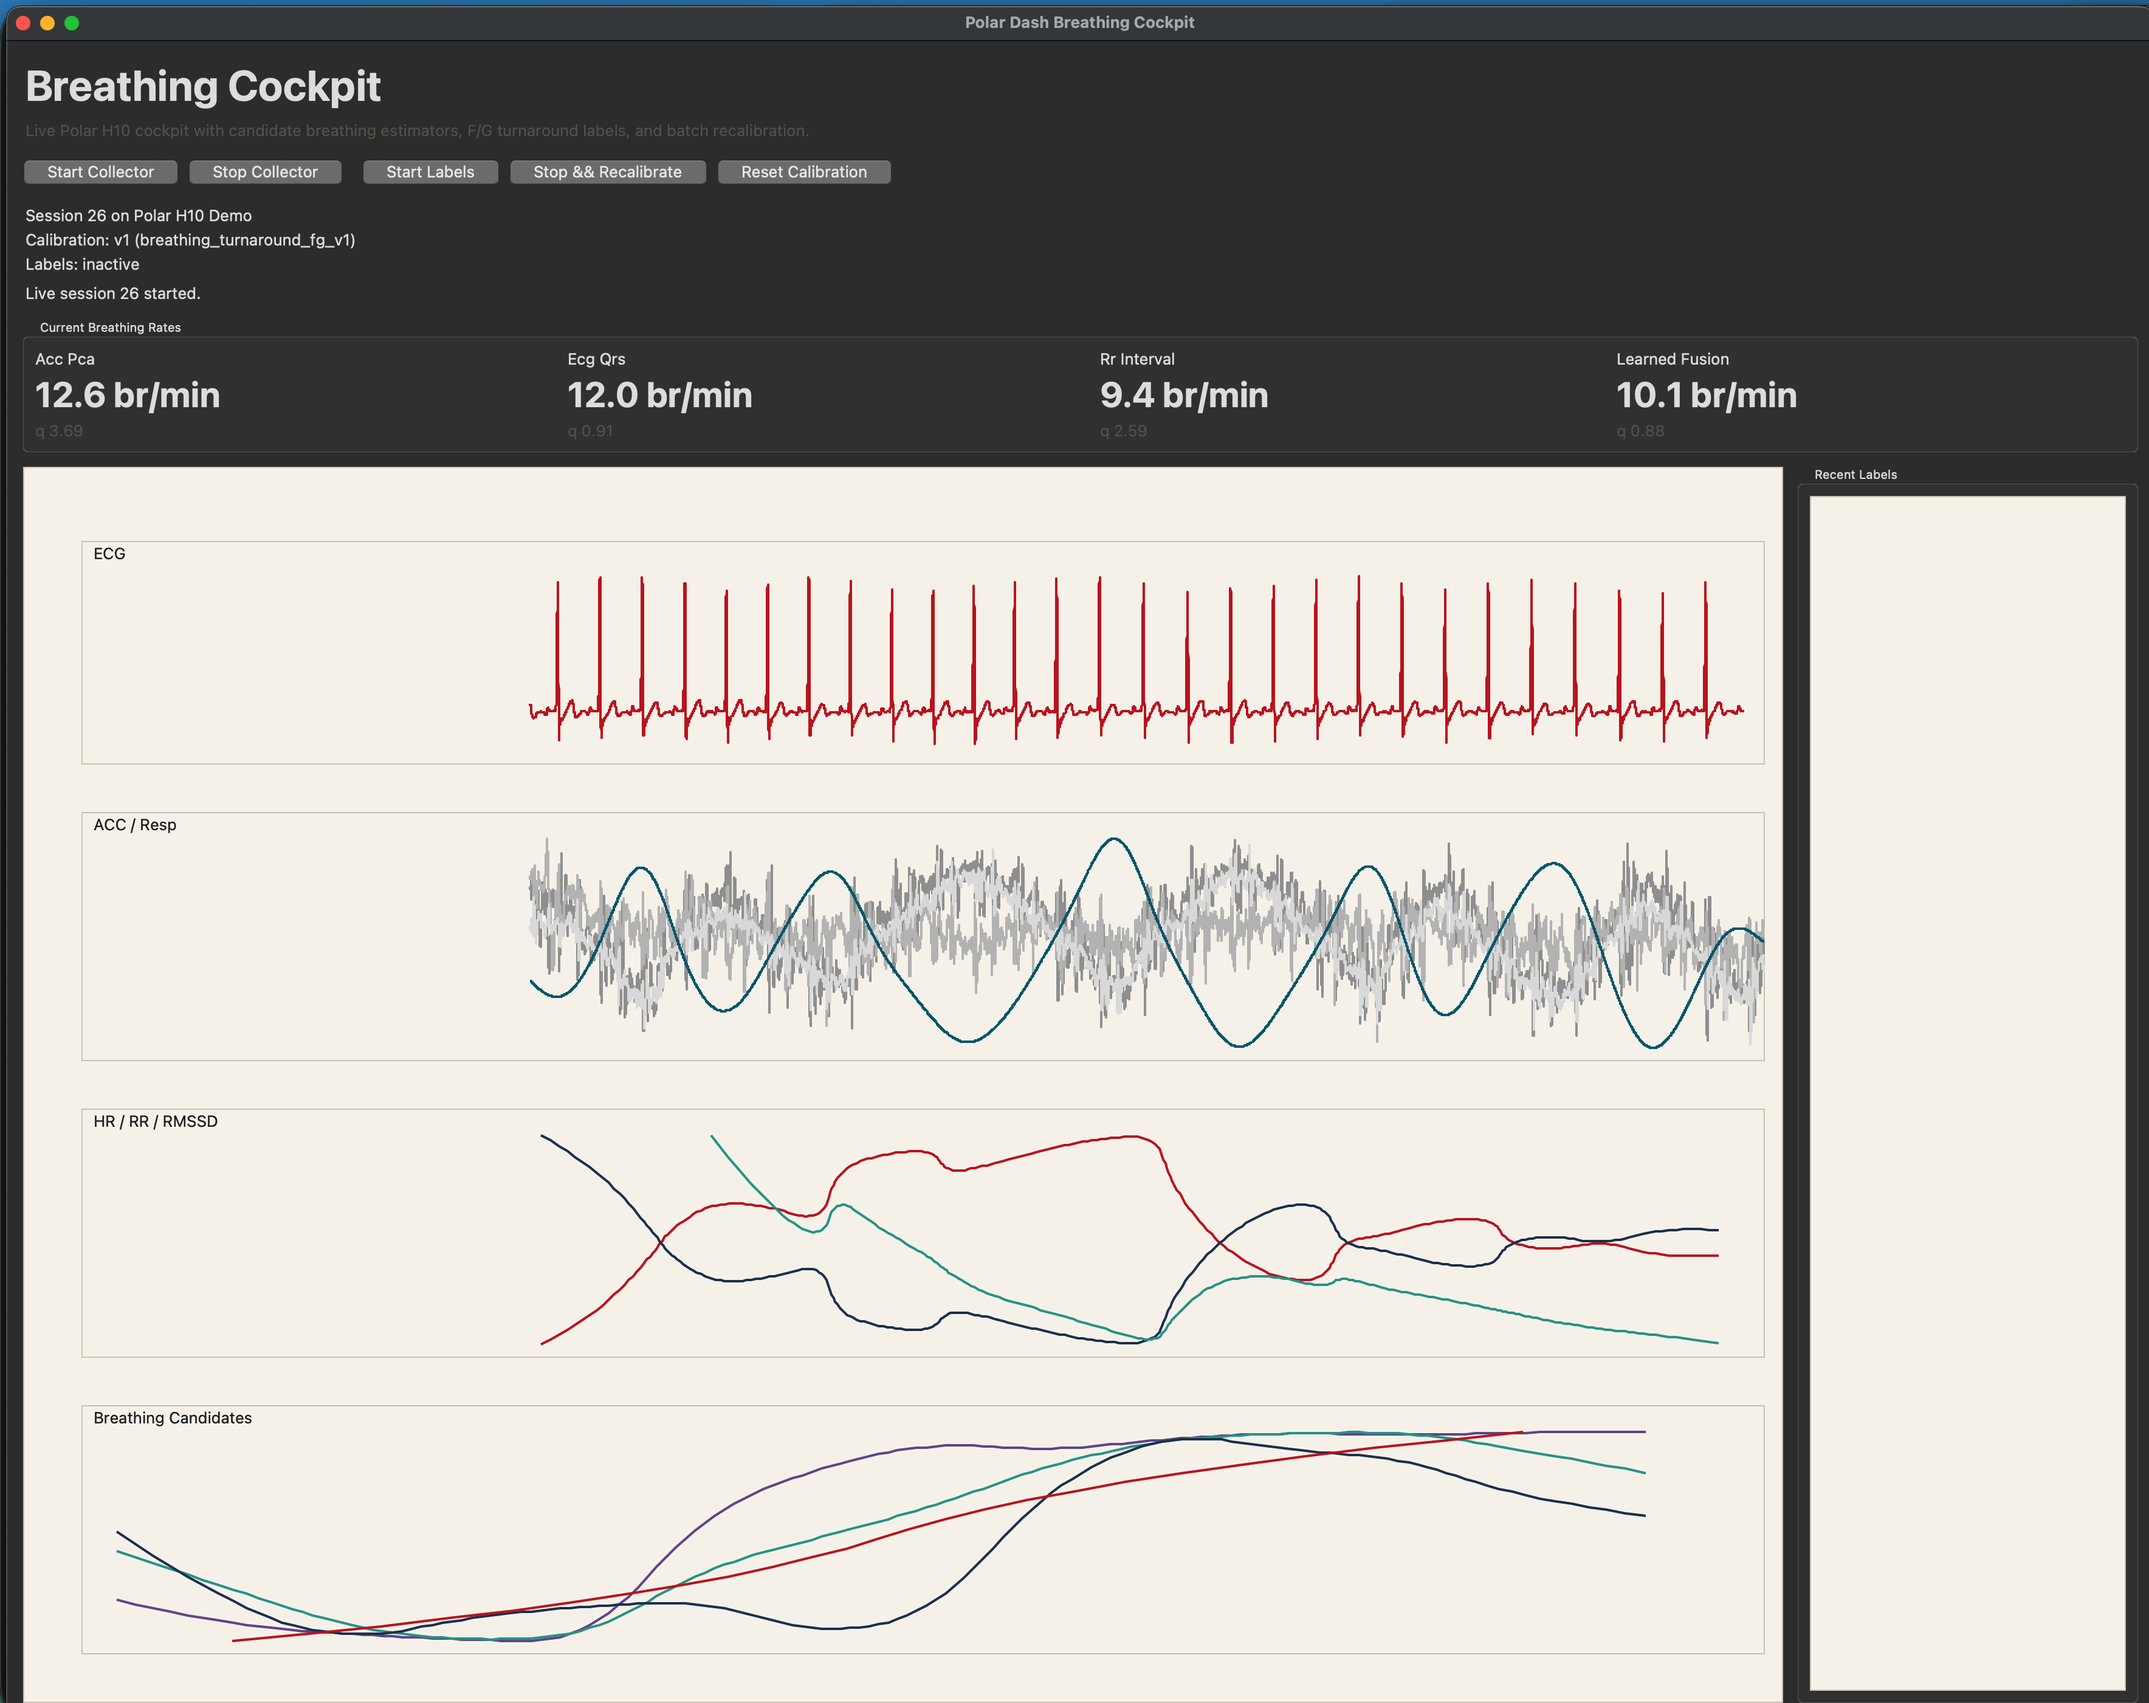
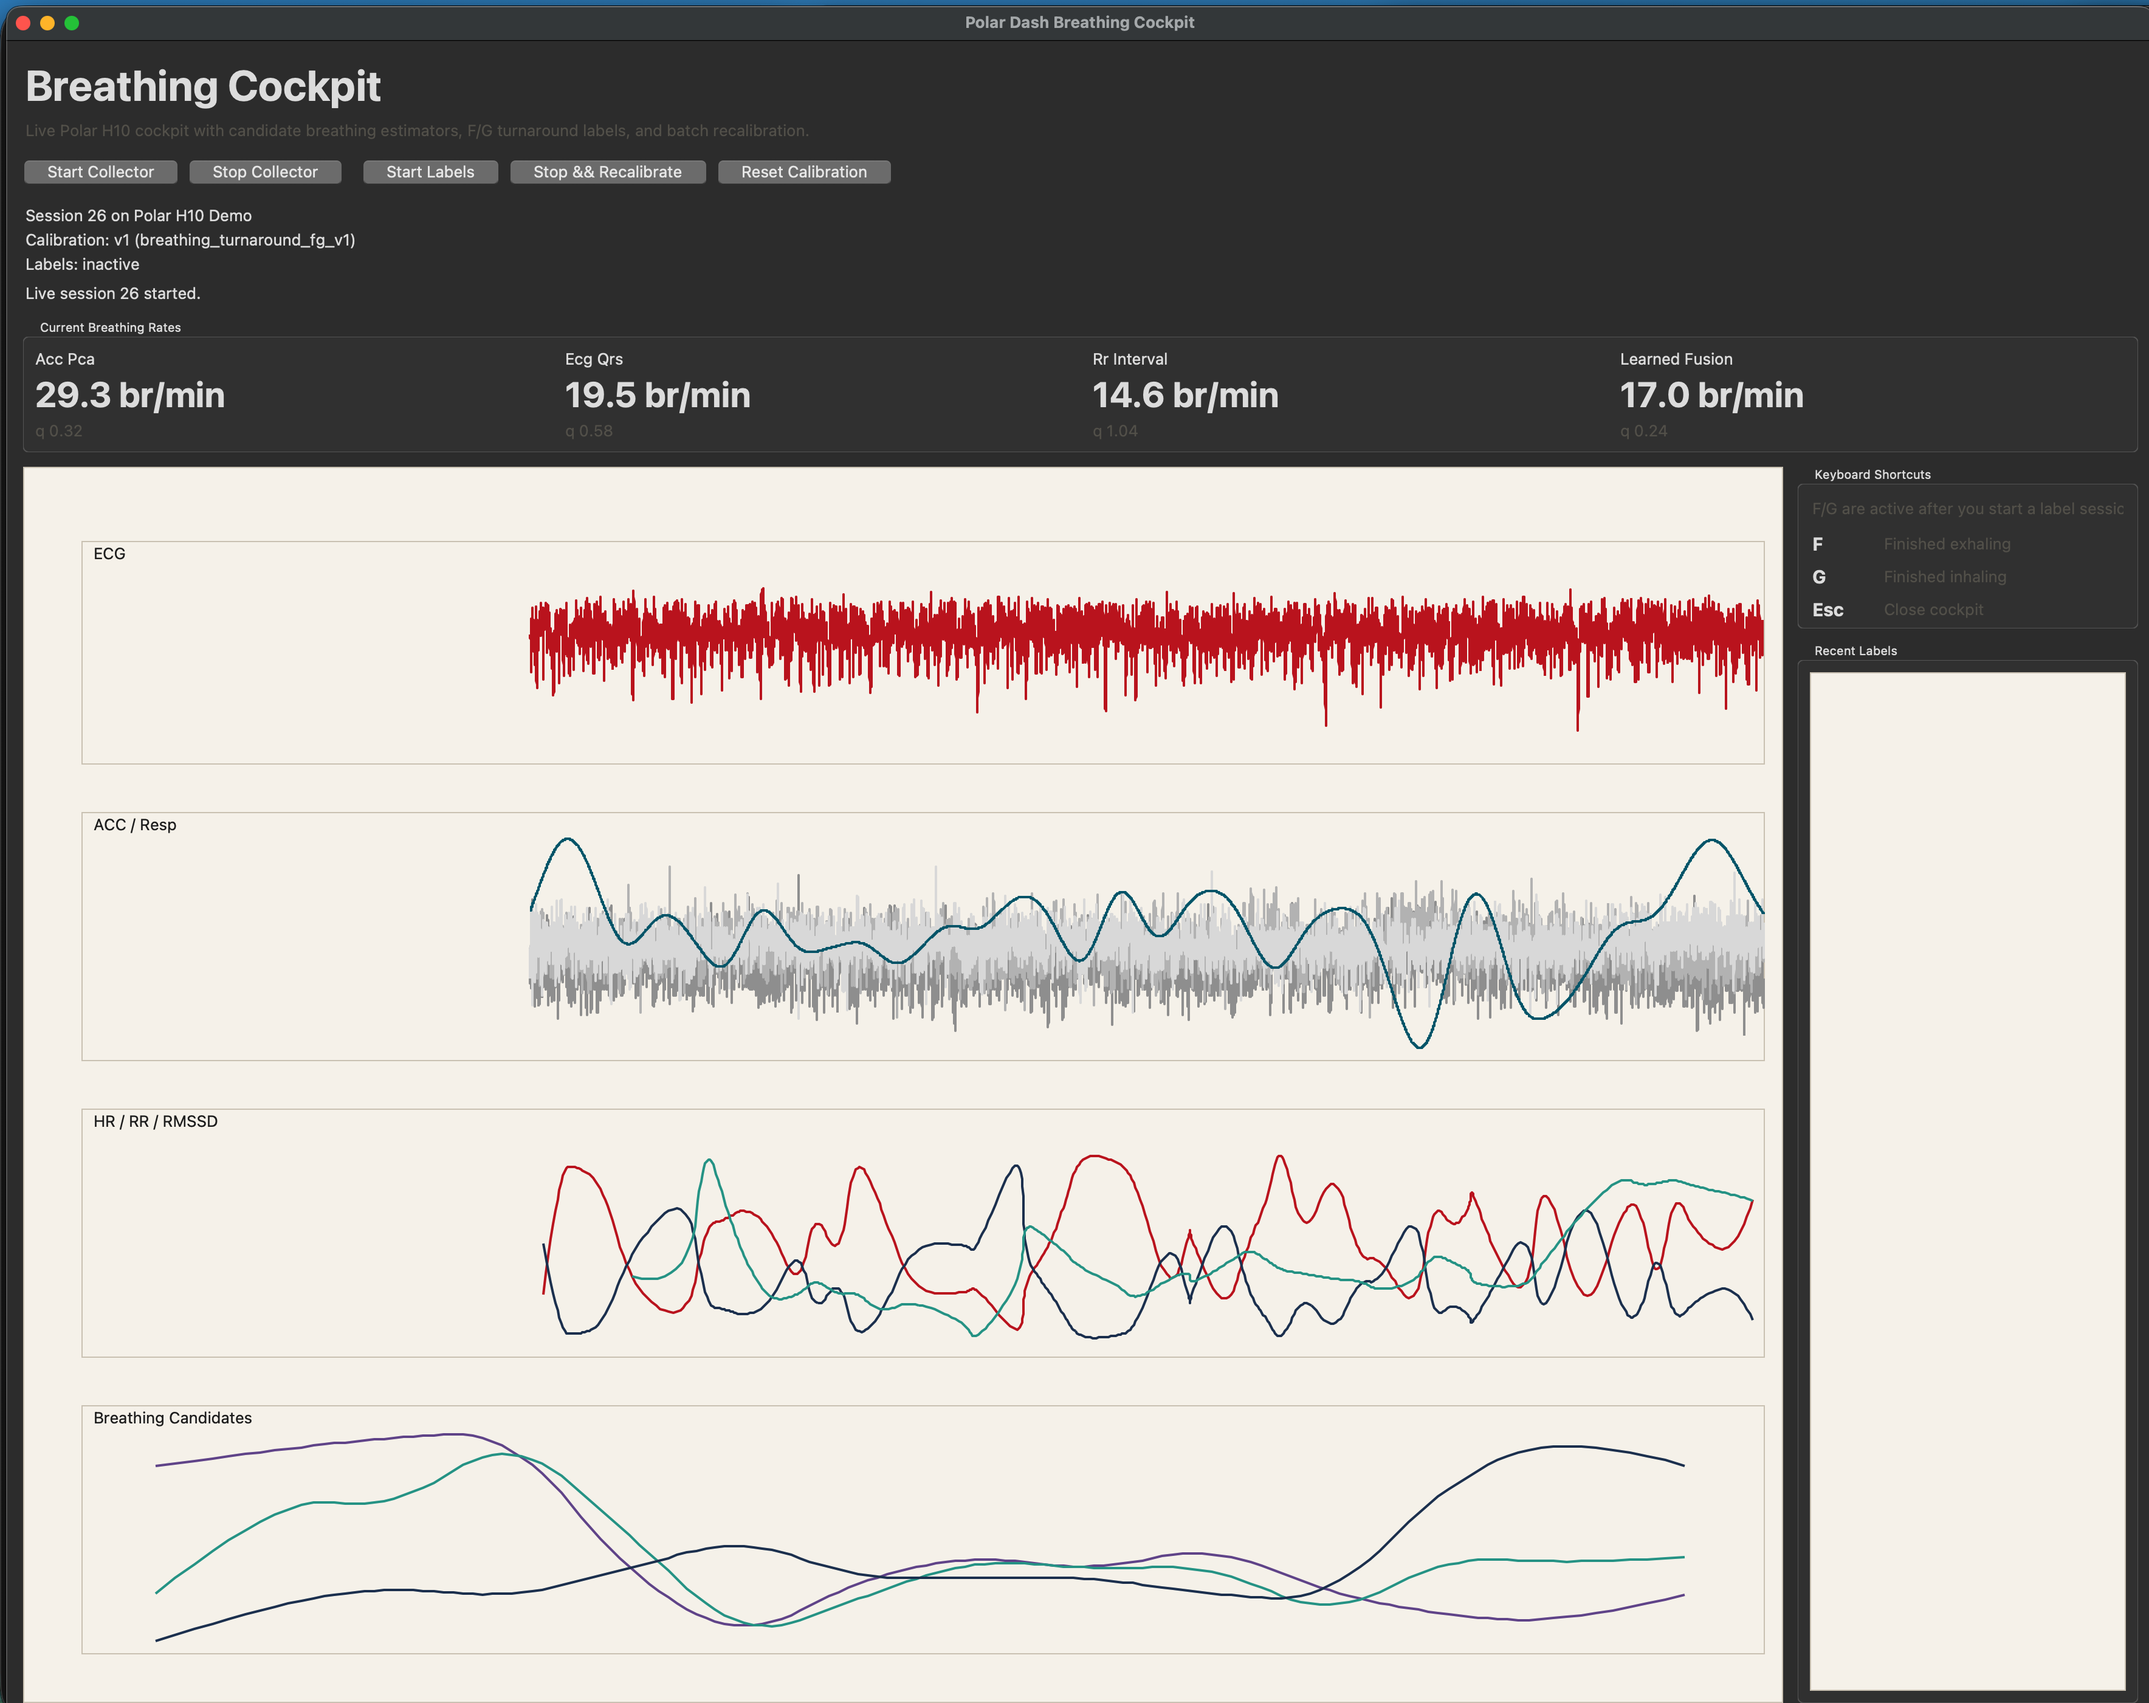
Document cockpit keyboard shortcuts in the README

diff --git a/README.md b/README.md
@@ -18,7 +18,7 @@ The menu bar companion keeps the latest breathing rate, heart rate, and HRV visi
 
 ![Breathing cockpit](docs/images/cockpit-demo.png)
 
-The cockpit is the heavier live view: raw ECG, accelerometer traces, breathing candidates, fusion output, and optional labeling controls for quick calibration experiments.
+The cockpit is the heavier live view: raw ECG, accelerometer traces, breathing candidates, fusion output, and a visible shortcut panel for quick labeling/calibration sessions.
 
 ## Why This Exists
 
@@ -96,6 +96,14 @@ swift build --package-path macos/BreathingBar
 ```
 
 The `install-hr-stack.sh` helper installs `hron` and `hroff`, which wrap the cockpit and the menu bar app for quick local start/stop cycles.
+
+## Keyboard Shortcuts
+
+The cockpit shows the shortcuts in the sidebar, and the label keys are active once you start a label session:
+
+- `F`: mark "finished exhaling"
+- `G`: mark "finished inhaling"
+- `Esc`: close the cockpit
 
 ## How Breathing Is Estimated
 
